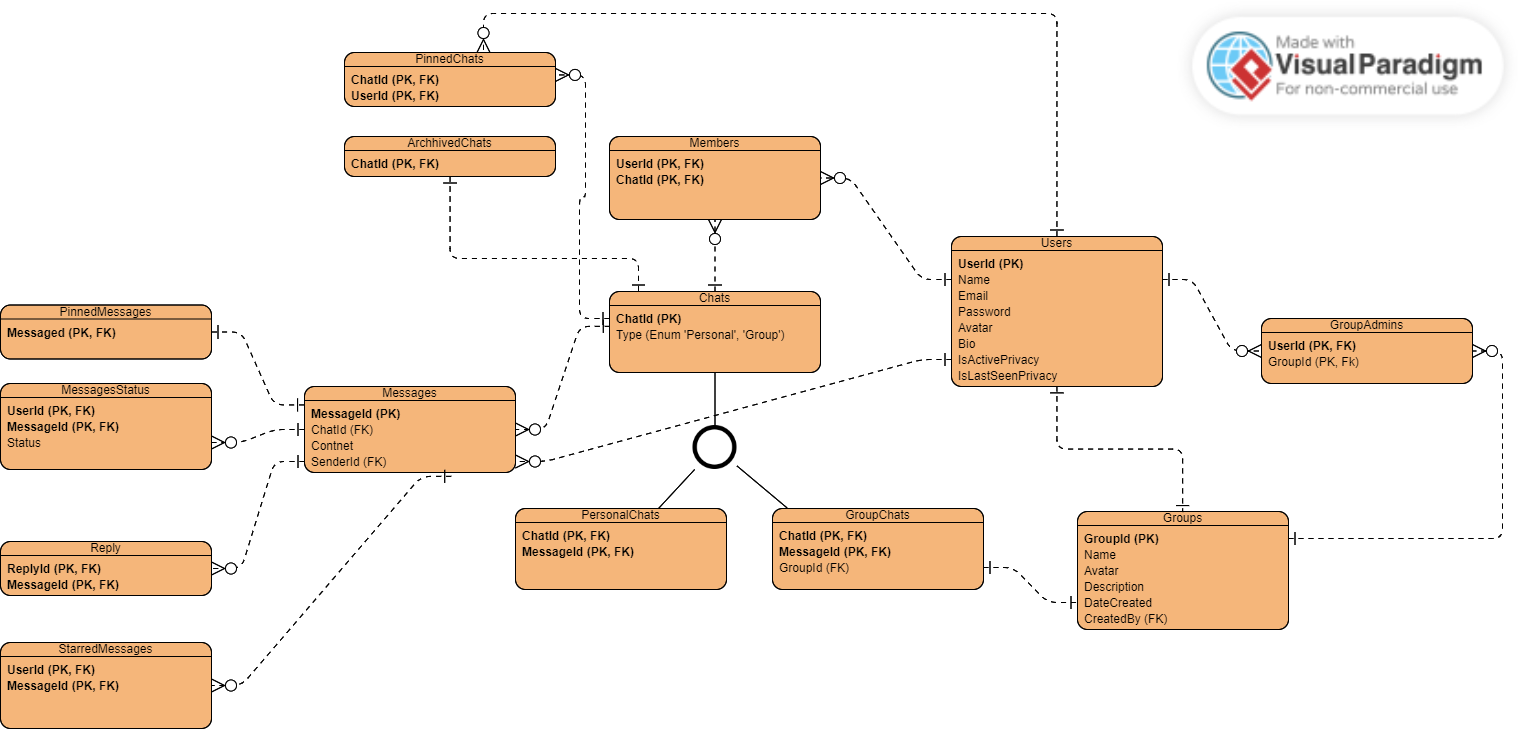
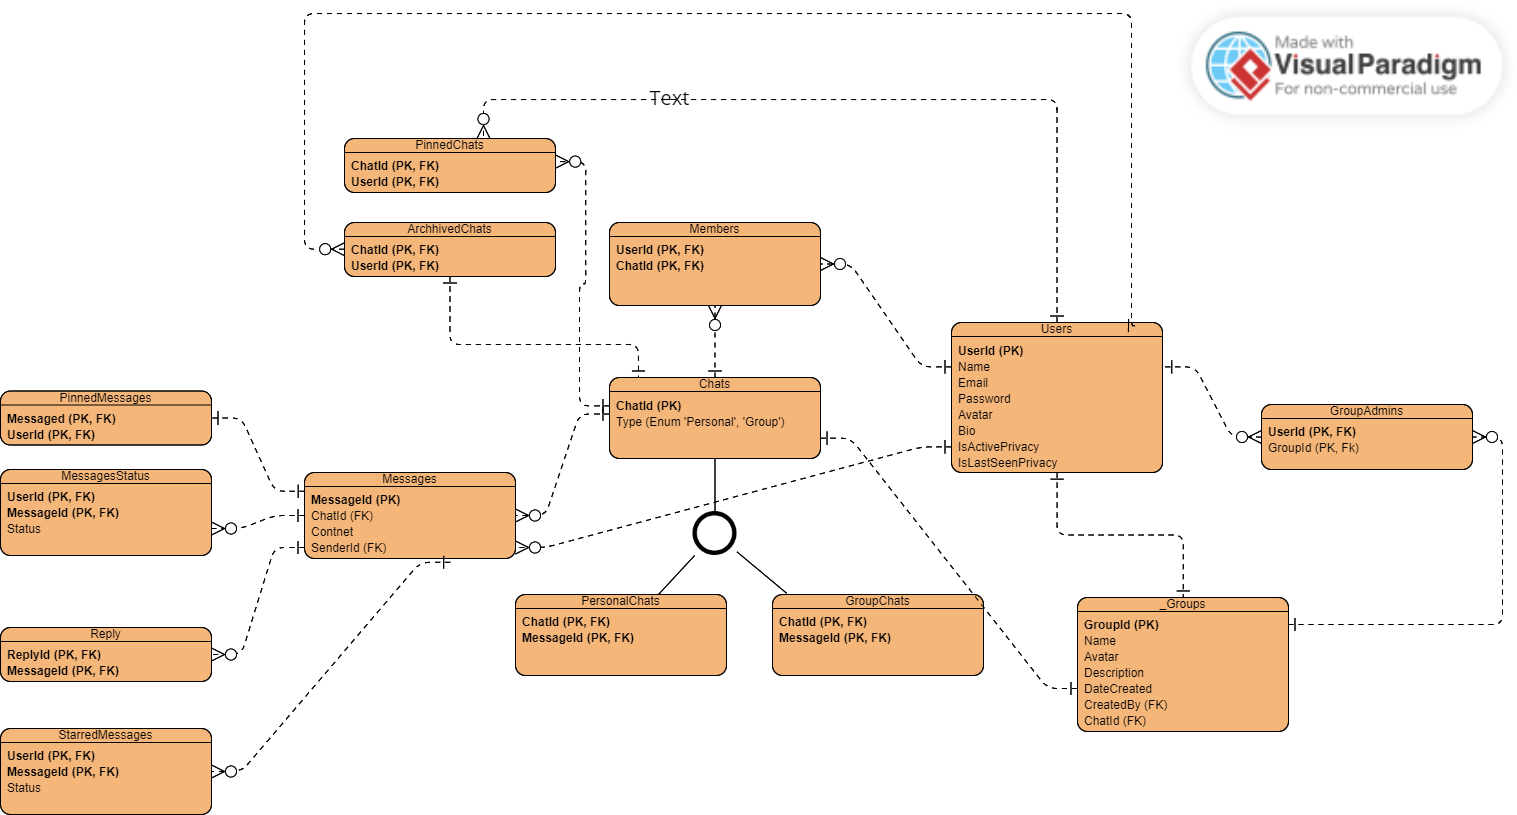
delete Groups changes

diff --git a/server/controllers/group.controllers.ts b/server/controllers/group.controllers.ts
@@ -5,8 +5,9 @@ import errorHandler from "../errors/error";
 import { authRequest } from "../middlewares/authenticate";
 
 export const deleteGroup = async (req: authRequest, res: Response, next: NextFunction) => {
-  const groupId = req.body;
-  const query = `DELETE FROM _Groups WHERE GroupId = ?;`;
+  const { groupId } = req.body;
+
+  const query = "DELETE FROM Chats WHERE ChatId = (SELECT ChatId FROM _Groups WHERE GroupId = ?);";
   const values: any = [groupId];
 
   connection.query(query, values, (err: QueryError | null, result: any) => {
@@ -20,10 +21,10 @@ export const deleteGroup = async (req: authRequest, res: Response, next: NextFun
 };
 
 export const getCommonGroups = async (req: authRequest, res: Response, next: NextFunction) => {
-  const friendId = req.params.friendId
-  const userId = req.userId
+  const friendId = req.params.friendId;
+  const userId = req.userId;
 
-  const query = `SELECT * FROM _Groups g JOIN GroupChats gc on g.GroupId = gc.GroupId JOIN Members m1 on gc.chatId = m1.chatId JOIN Members m2 on gc.chatId = m2.chatId WHERE m1.userId = ? AND m2.userId = ?;`
+  const query = `SELECT g.* FROM _Groups g  JOIN Members m1 on g.ChatId = m1.ChatId JOIN Members m2 on g.ChatId = m2.ChatId WHERE m1.UserId = 2 AND m2.UserId = 1;`
   const values = [friendId, userId]
   connection.query(query, values, (err: QueryError | null, result: RowDataPacket[]) => {
     if (err) {

diff --git a/server/middlewares/isAdmin.ts b/server/middlewares/isAdmin.ts
@@ -7,10 +7,8 @@ import { QueryError, RowDataPacket } from "mysql2";
 
 const isAdmin = async (req: authRequest, res: Response, next: NextFunction) => {
   try {
-    // const groupId = req.body
     const { groupId } = req.body
 
-    // const query: string = 'SELECT UserId FROM Users WHERE UserId IN (SELECT UserId FROM GroupAdmins WHERE UserId = ? AND GroupId = ?);';
     const query: string = 'SELECT UserId FROM GroupAdmins WHERE UserId = ? AND GroupId = ?;';
     connection.query(query, [req.userId, groupId], (err: QueryError | null, result: RowDataPacket[]) => {
       if (err) {
